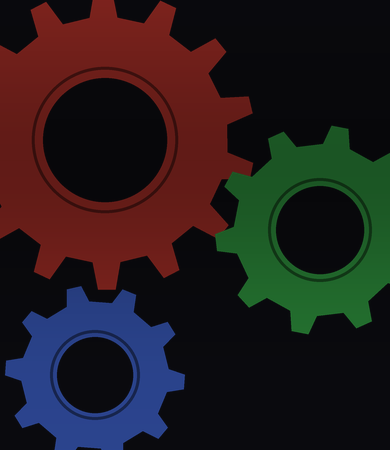
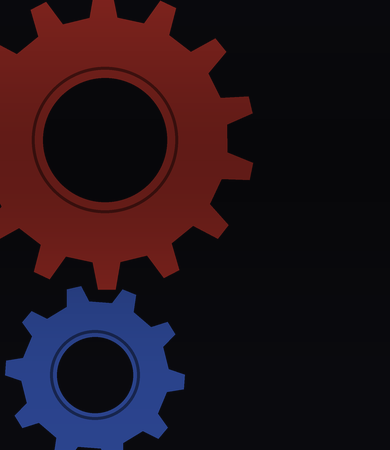
Rotating second-gear: green gear turns 6°/s with minute marker tooth
The green gear leaves the static background and becomes a TIME_POINTER
second-hand sprite: the OS rotates it 1/60 turn per second, one full
revolution per minute, and its white marker tooth (authored pointing
up, the second-0 orientation) hits 12 o'clock at the start of each
minute. Seconds digits move into the gear hub, which is the rotation
pivot; HH:MM returns to center.

Claude-Session: https://claude.ai/code/session_01Mmkrk9sDkbVzoiBDNpD5EP

Changed region(s): [[0.5538, 0.28, 1.0, 0.7467]]

diff --git a/watchface/index.js b/watchface/index.js
@@ -43,6 +43,18 @@ WatchFace({
       src: 'background.png'
     })
 
+    // the green gear is the "second hand": the OS rotates it about its
+    // center 6° per second, one revolution per minute. The sprite is
+    // authored with its white marker tooth pointing up, which is the
+    // second-0 orientation — so the marker hits 12 o'clock at :00.
+    hmUI.createWidget(hmUI.widget.TIME_POINTER, {
+      second_centerX: 320,
+      second_centerY: 230,
+      second_posX: 106,
+      second_posY: 106,
+      second_path: 'gear.png'
+    })
+
     // moon phase disc, right of the battery % (MOON_X/MOON_Y in
     // gen_assets.py) — the top-right corner is clipped by the rounded screen
     hmUI.createWidget(hmUI.widget.IMG_LEVEL, {
@@ -81,11 +93,11 @@ WatchFace({
     })
 
     // HH:MM — digits are 60px wide, colon 35px, so 4*60 + 35 = 275 total.
-    // Small seconds (the 24x44 white date digits) sit to the right,
-    // bottom-aligned with the big digits (y 108 + 110 - 44 = 174).
+    // Small seconds (the 24x44 white date digits) sit in the gear's hub —
+    // the hub is the rotation pivot, so it stays put under them.
     hmUI.createWidget(hmUI.widget.IMG_TIME, {
       hour_zero: 1,
-      hour_startX: 45,
+      hour_startX: 57,
       hour_startY: 108,
       hour_array: timeDigits,
       hour_unit_sc: 'time/colon.png',
@@ -95,8 +107,8 @@ WatchFace({
       minute_zero: 1,
       minute_array: timeDigits,
       second_zero: 1,
-      second_startX: 326,
-      second_startY: 174,
+      second_startX: 296,
+      second_startY: 208,
       second_array: dateDigits
     })
 

diff --git a/gen_assets.py b/gen_assets.py
@@ -11,7 +11,10 @@ Produces, under assets/bip6/:
   preview.png             390x450 preview with sample data baked in
   time/0.png..9.png       big white digits for HH:MM (scale 5)
   time/colon.png          colon separator
-  date/0.png..9.png       white digits for MM/DD and the small seconds (scale 2)
+  date/0.png..9.png       white digits for MM/DD and the seconds hub (scale 2)
+  gear.png                212px green gear, TIME_POINTER second-hand sprite:
+                          one revolution per minute, white marker tooth
+                          authored pointing up = start of minute
   date/slash.png          '/' separator
   week/0.png..6.png       MON..SUN day abbreviations (scale 2)
   steps/0.png..9.png      red digits (scale 2)
@@ -87,8 +90,10 @@ def dim(color, f):
     return tuple(int(c * f) for c in color)
 
 
-def gear_layer(size, cx, cy, outer_r, teeth, color, hole_r, angle_offset=0.0):
-    """Draw one flat gear (glxgears style: toothed ring with a big hole) on a new RGBA layer."""
+def gear_layer(size, cx, cy, outer_r, teeth, color, hole_r, angle_offset=0.0,
+               marker_color=None):
+    """Draw one flat gear (glxgears style: toothed ring with a big hole) on a new RGBA layer.
+    marker_color, if given, highlights tooth 0 as an index marker."""
     layer = Image.new("RGBA", (size[0] * SS, size[1] * SS), (0, 0, 0, 0))
     d = ImageDraw.Draw(layer)
     cx, cy, outer_r, hole_r = cx * SS, cy * SS, outer_r * SS, hole_r * SS
@@ -96,12 +101,19 @@ def gear_layer(size, cx, cy, outer_r, teeth, color, hole_r, angle_offset=0.0):
     pts = []
     step = 2 * math.pi / teeth
     # each tooth: rise on outer radius for ~40% of the pitch, valley on root radius
+    tooth_fracs = ((0.00, root_r), (0.12, outer_r), (0.38, outer_r), (0.50, root_r))
     for i in range(teeth):
         a0 = angle_offset + i * step
-        for frac, r in ((0.00, root_r), (0.12, outer_r), (0.38, outer_r), (0.50, root_r)):
+        for frac, r in tooth_fracs:
             a = a0 + frac * step
             pts.append((cx + r * math.cos(a), cy + r * math.sin(a)))
     d.polygon(pts, fill=color + (255,))
+    if marker_color:
+        # repaint tooth 0 (flank-tip-flank quad, closed via a root-circle arc)
+        quad = [(cx + r * math.cos(angle_offset + frac * step),
+                 cy + r * math.sin(angle_offset + frac * step))
+                for frac, r in tooth_fracs]
+        d.polygon(quad, fill=marker_color + (255,))
     # punch the center hole (raw pixel write, no blending -> true transparency)
     d.ellipse([cx - hole_r, cy - hole_r, cx + hole_r, cy + hole_r], fill=(0, 0, 0, 0))
     # subtle inner rim shading for a hint of depth
@@ -117,8 +129,7 @@ def make_background():
     for args in (
         # big red gear, upper left, partly off-screen
         dict(cx=105, cy=140, outer_r=150, teeth=14, color=dim(RED, f), hole_r=62, angle_offset=0.1),
-        # green gear meshing to its right
-        dict(cx=320, cy=230, outer_r=105, teeth=10, color=dim(GREEN, f), hole_r=44, angle_offset=0.35),
+        # (the green gear is a separate rotating sprite now — see make_gear)
         # small blue gear, lower left
         dict(cx=95, cy=375, outer_r=90, teeth=10, color=dim(BLUE, f), hole_r=38, angle_offset=0.55),
     ):
@@ -181,6 +192,25 @@ def make_moon():
         img.save(os.path.join(OUT, "moon", f"{day}.png"))
 
 
+GEAR_SIZE = 212           # sprite canvas, 2 * outer_r + 2
+GEAR_CX, GEAR_CY = 320, 230  # on-screen rotation center (where the bg gear was)
+
+
+def make_gear():
+    """The green gear as a TIME_POINTER second-hand sprite: one full turn per
+    minute. Authored with the white marker tooth pointing straight up, which
+    is how pointer images are drawn at second 0."""
+    c = GEAR_SIZE // 2
+    teeth = 10
+    step = 2 * math.pi / teeth
+    # tooth 0's tip (fracs 0.12..0.38, center 0.25) points up (-pi/2)
+    angle = -math.pi / 2 - 0.25 * step
+    img = gear_layer((GEAR_SIZE, GEAR_SIZE), c, c, c - 1, teeth,
+                     dim(GREEN, 0.62), 44, angle_offset=angle,
+                     marker_color=(235, 235, 235))
+    img.save(os.path.join(OUT, "gear.png"))
+
+
 def make_icon():
     size = (192, 192)
     img = Image.new("RGBA", size, (0, 0, 0, 0))
@@ -209,12 +239,14 @@ def make_preview(bg):
     x += paste("week/4.png", x, DATE_Y) + DATE_GAP
     for p in ("date/0.png", "date/8.png", "date/slash.png", "date/0.png", "date/8.png"):
         x += paste(p, x, DATE_Y)
-    # time 10:08 + small 42s, layout mirrors TIME_X/SEC_X in index.js
-    x = TIME_X
-    for p in ("time/1.png", "time/0.png", "time/colon.png", "time/0.png", "time/8.png"):
-        x += paste(p, x, TIME_Y)
-    paste("date/4.png", SEC_X, SEC_Y)
-    paste("date/2.png", SEC_X + 24, SEC_Y)
+    # green second-gear at sample second 42: 42 * 6 = 252° clockwise
+    # (PIL rotates counterclockwise for positive angles, hence the minus)
+    gear = Image.open(os.path.join(OUT, "gear.png")).rotate(-252, resample=Image.BICUBIC)
+    img.alpha_composite(gear, (GEAR_CX - GEAR_SIZE // 2, GEAR_CY - GEAR_SIZE // 2))
+    # seconds digits in the gear hub (SEC_X/SEC_Y in index.js)
+    paste("date/4.png", GEAR_CX - 24, GEAR_CY - 22)
+    paste("date/2.png", GEAR_CX, GEAR_CY - 22)
+    paste_row(["time/1.png", "time/0.png", "time/colon.png", "time/0.png", "time/8.png"], TIME_Y)
     paste_row(["label_steps.png"], 252)
     paste_row(["steps/8.png", "steps/4.png", "steps/7.png", "steps/6.png"], 280)
     paste_row(["label_batt.png"], 344)
@@ -228,6 +260,7 @@ if __name__ == "__main__":
     bg = make_background()
     make_fonts()
     make_moon()
+    make_gear()
     make_icon()
 
     # moon disc right of the battery % — the top-right corner gets clipped
@@ -245,16 +278,14 @@ if __name__ == "__main__":
     DATE_Y = 52
     time_w = 4 * Image.open(os.path.join(OUT, "time", "0.png")).width \
         + Image.open(os.path.join(OUT, "time", "colon.png")).width
-    TIME_X = 45   # nudged left of center so the seconds fit on the right
     TIME_Y = 108
-    SEC_X = TIME_X + time_w + 6
-    SEC_Y = TIME_Y + 110 - 44  # bottom-aligned with the big digits
 
     make_preview(bg)
     print("assets written to", OUT)
     print(f"index.js constants: WEEK_X={DATE_X} DATE_Y={DATE_Y} "
-          f"MONTH_X={DATE_X + week_w + DATE_GAP} TIME_X={TIME_X} TIME_Y={TIME_Y} "
-          f"SEC_X={SEC_X} SEC_Y={SEC_Y} "
+          f"MONTH_X={DATE_X + week_w + DATE_GAP} TIME_X={(W - time_w) // 2} TIME_Y={TIME_Y} "
+          f"GEAR_CENTER=({GEAR_CX},{GEAR_CY}) GEAR_POS={GEAR_SIZE // 2} "
+          f"SEC_X={GEAR_CX - 24} SEC_Y={GEAR_CY - 22} "
           f"(time digits {Image.open(os.path.join(OUT, 'time', '0.png')).width}w, "
           f"colon {Image.open(os.path.join(OUT, 'time', 'colon.png')).width}w, "
           f"labels {Image.open(os.path.join(OUT, 'label_steps.png')).width}x"
